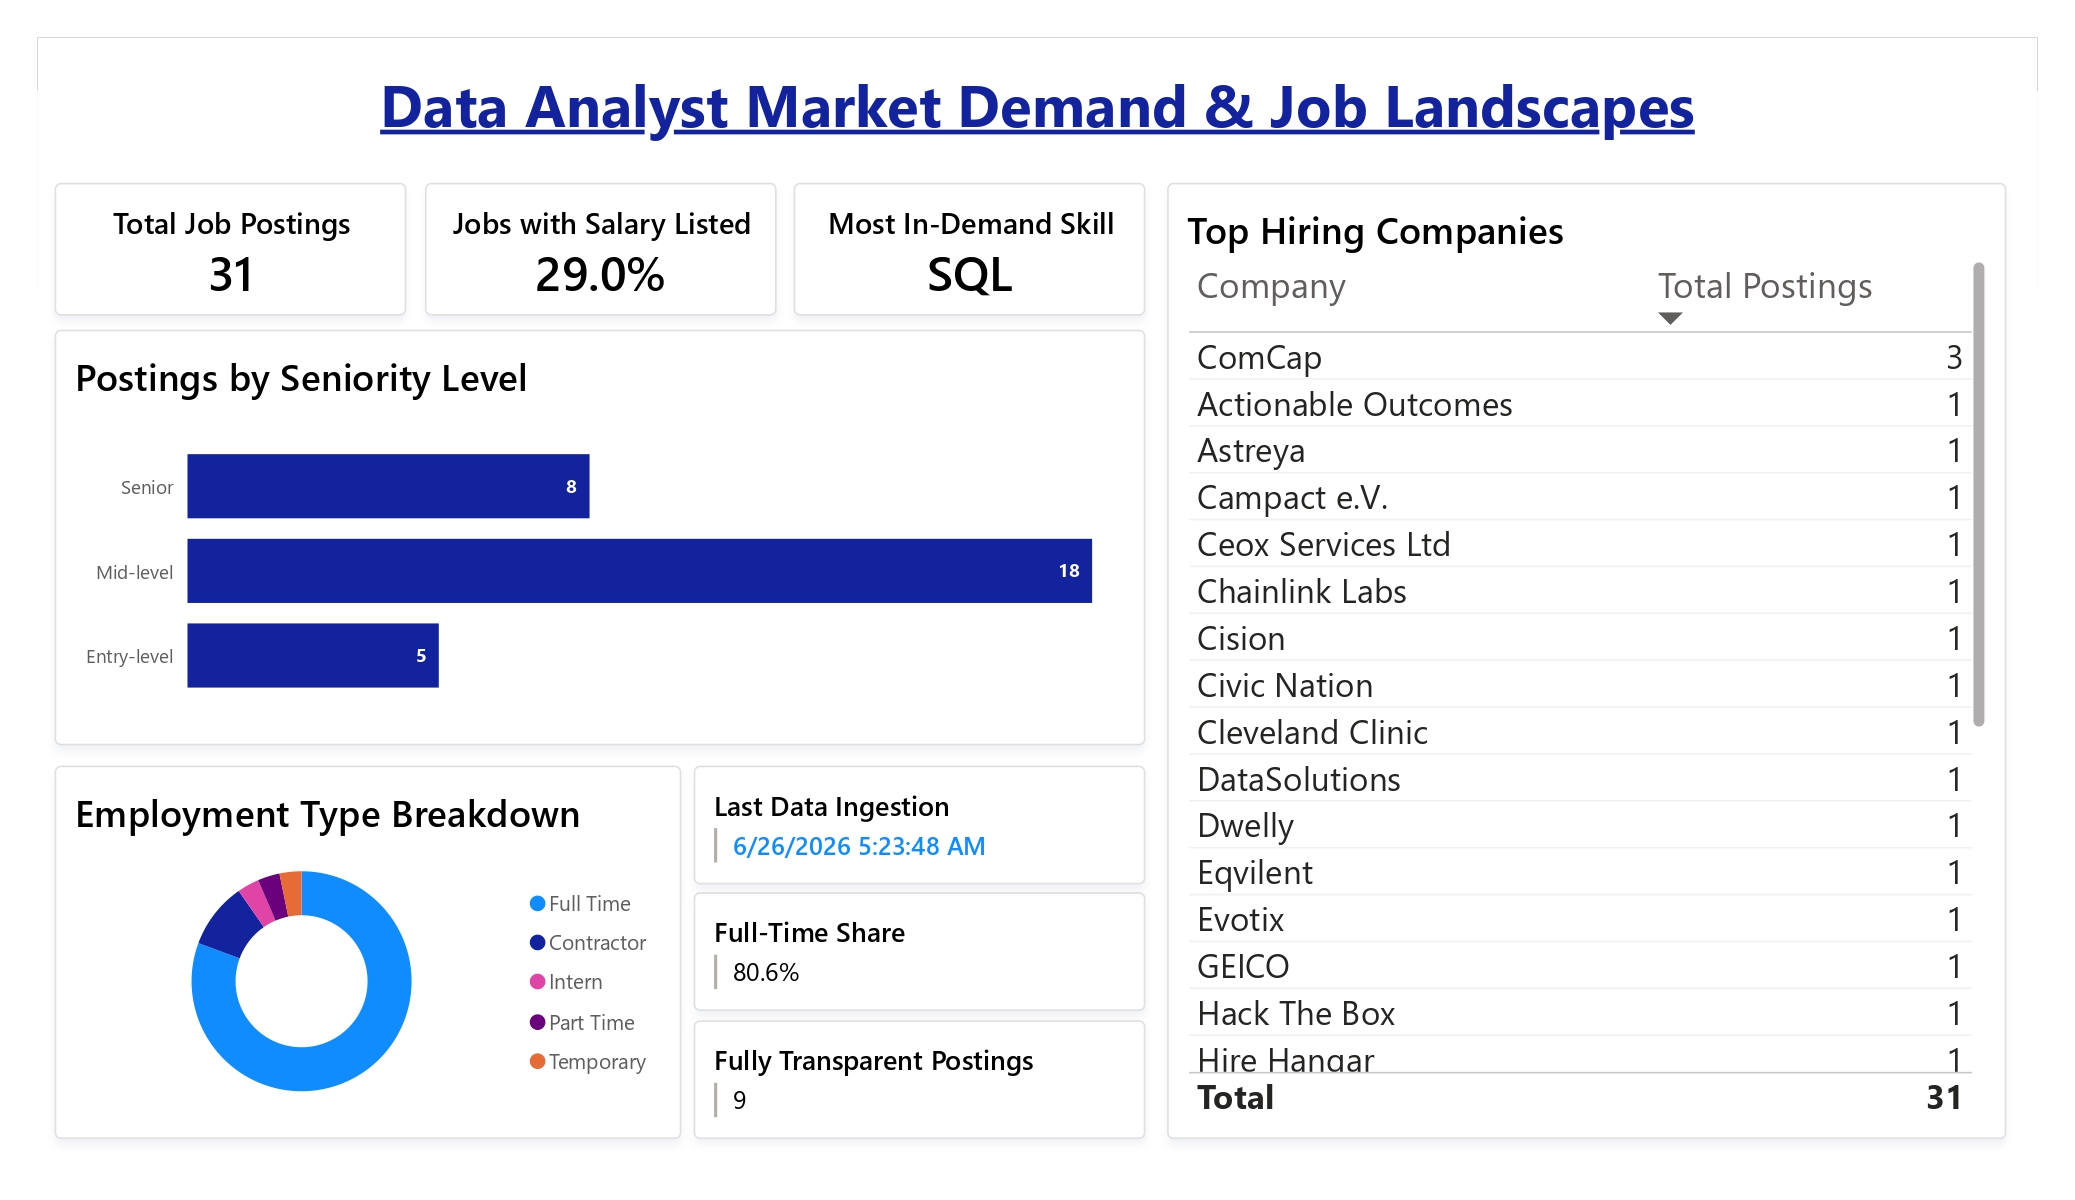
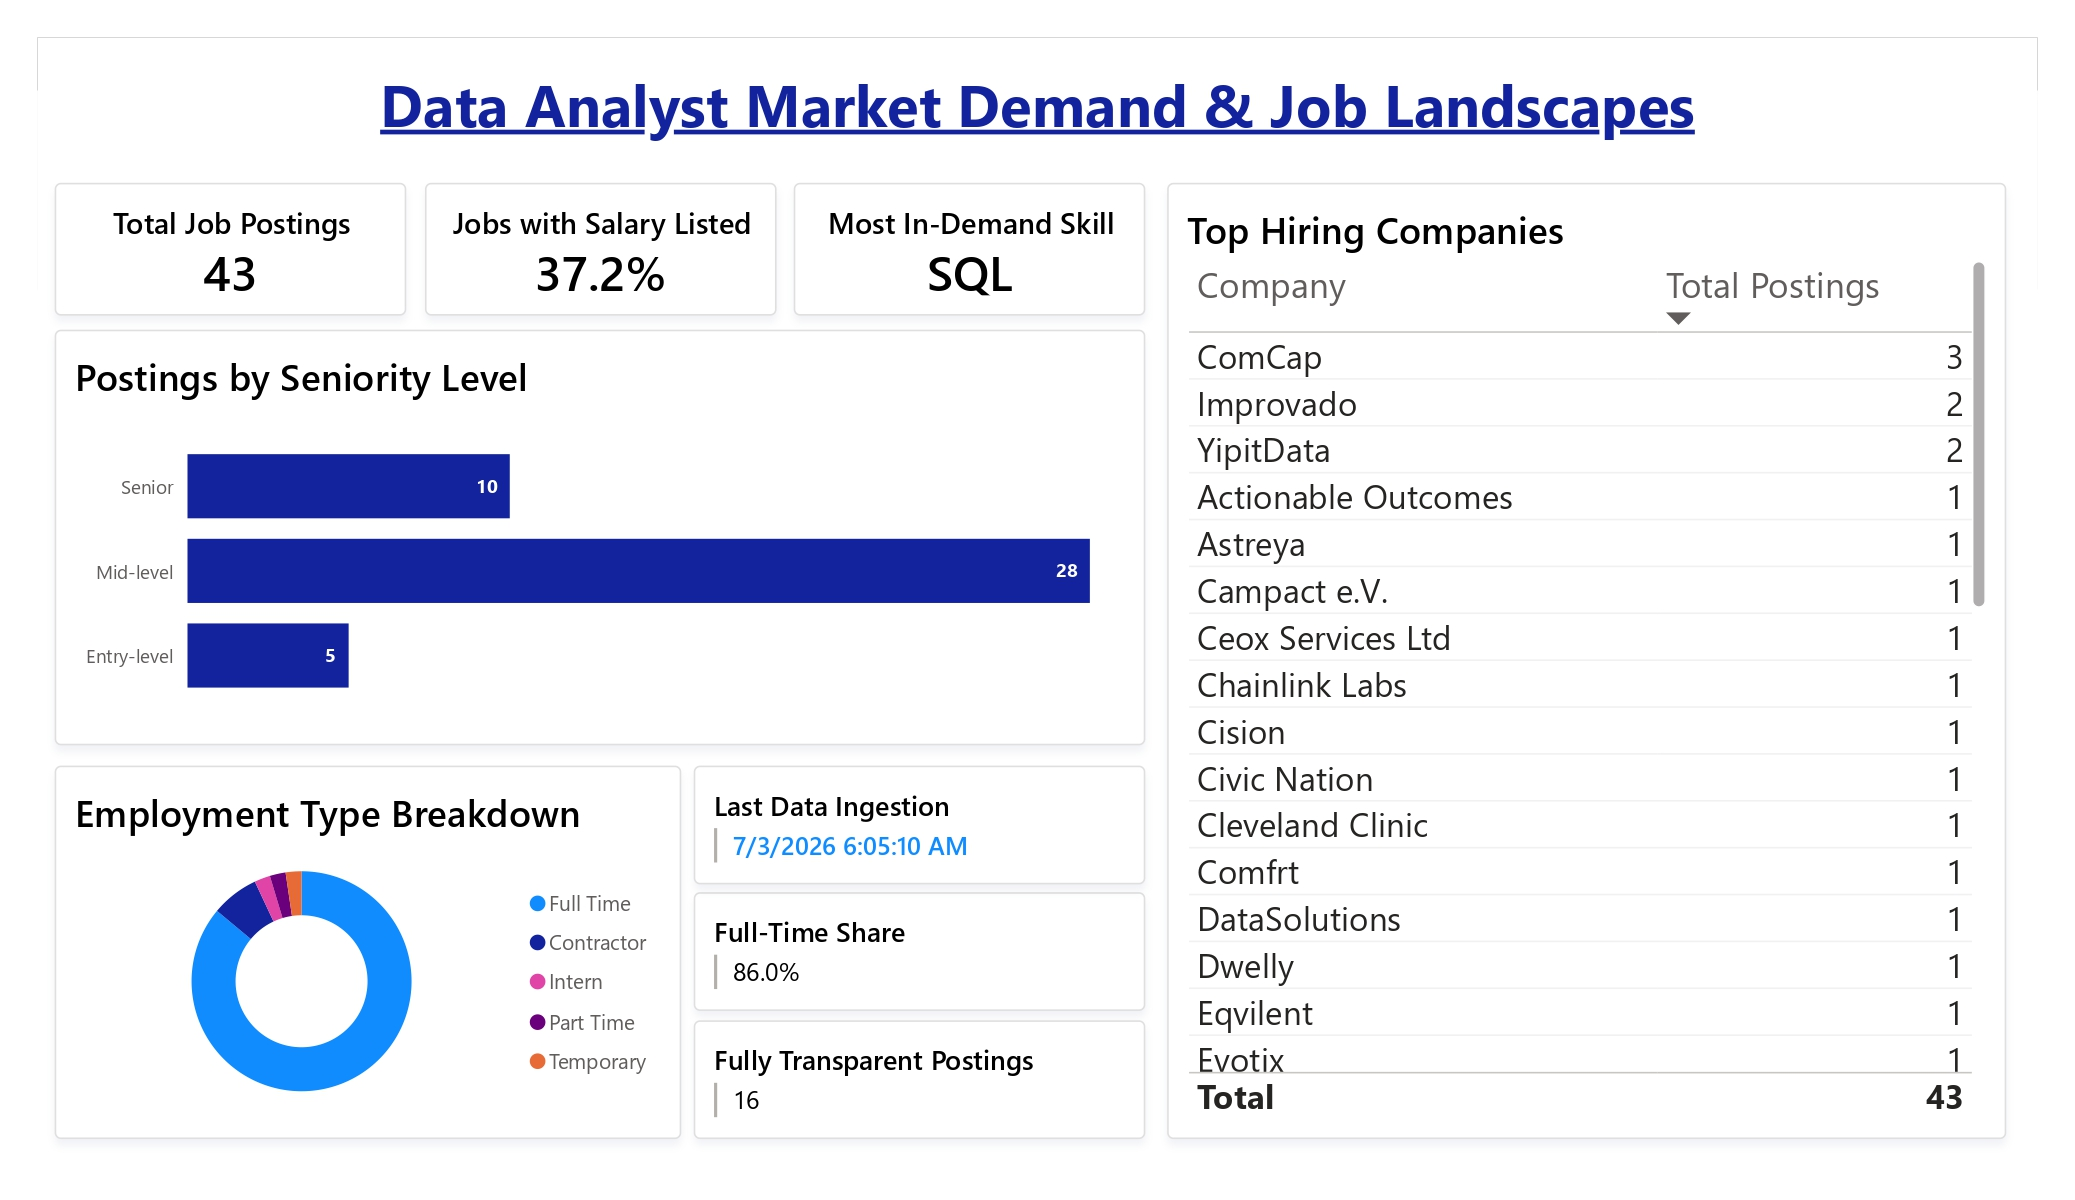
Updates

diff --git a/README.md b/README.md
@@ -261,6 +261,17 @@ CALCULATE(
 Last Data Ingestion = MAX('JobPostings'[loaded_at])
 ```
 
+**Mid-Level Salary Spread**  
+Calculates the financial gap between the average minimum and average maximum listed salaries specifically for mid-level roles.  
+This metric is dynamically injected into the Page 2 Smart Narrative visual to provide a direct signal of employer flexibility and potential negotiation margins within the market's highest-volume seniority tier.
+```
+Mid-Level Salary Spread = 
+CALCULATE(
+    [Avg Max Salary] - [Avg Min Salary],
+    'JobPostings'[seniority] = "Mid-level"
+)
+```
+
 **Top Skill**
 ```dax
 Top Skill =
@@ -302,7 +313,7 @@ Bottom left: Matrix: Salary by Seniority and Employment Type (Avg Min Salary, Av
 
 Top right: Clustered bar chart: Average Annual Salary Range by Seniority
 
-Bottom right: Narrative text box: Key Takeaway, plain-English interpretation of salary findings including market ceiling observations, negotiation delta, and data disclosure caveat
+Bottom right: Smart Narrative text box (Key Takeaway): Provides a plain-English interpretation of salary findings. It incorporates dynamic fields, such as the mid-level negotiation delta, alongside automated market ceiling observations and data disclosure caveats.
 
 **Layout principle:** each page follows a left-to-right information hierarchy: primary insight on the left, supporting detail on the right, matching natural reading flow and ensuring the most important numbers are visible first.
 